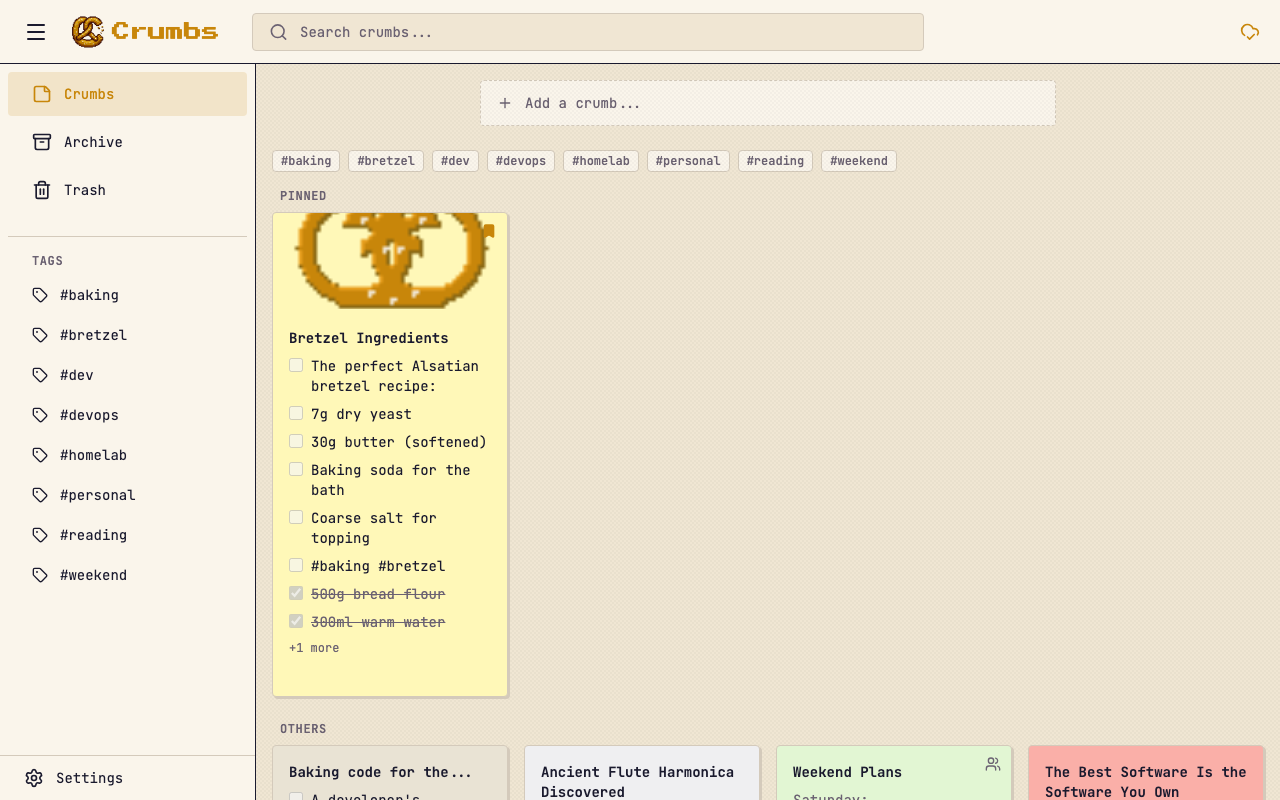
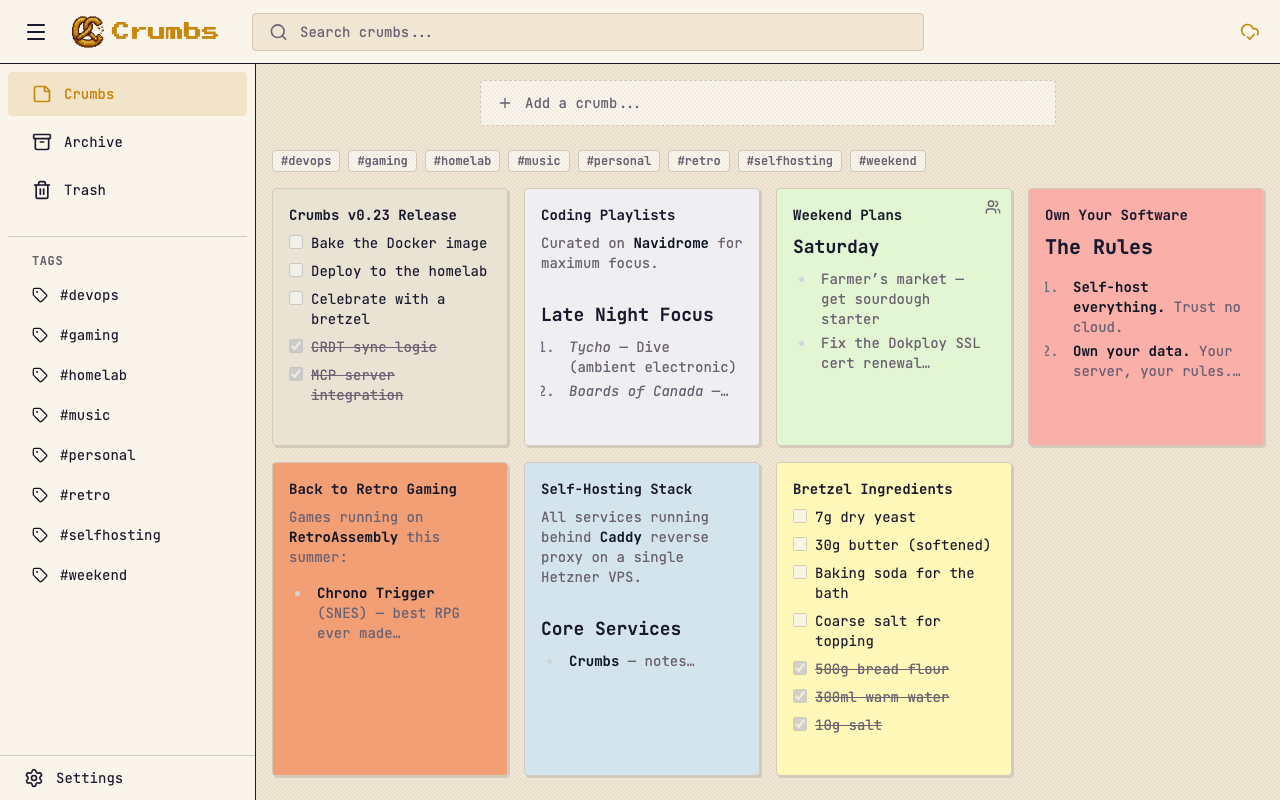
fix(screenshots): improve seed data content and remove attachments
- Remove image attachments and attachments screenshot
- Remove pinned note for cleaner hero grid
- Enrich note content with markdown (headings, bold, italic, blockquotes, lists)
- Replace "Ancient Flute" with "Coding Playlists" (ties to Navidrome)
- Shorten titles, remove content that repeats title
- Remove hashtags from checklist notes (rendered as items)
- Use bretzel persona "Salzig Bretzel" for collaborator
- Update services: Crumbs, 42, Dokploy, Outline, Navidrome, RetroAssembly, Umami

diff --git a/scripts/screenshots/seed.ts b/scripts/screenshots/seed.ts
@@ -1,5 +1,4 @@
 import type { Page } from '@playwright/test';
-import { generateBretzelPng, generateSaltShakerPng } from './bretzel-pixel';
 import { BASE_URL, ADMIN, COLLABORATOR } from './constants';
 
 type HttpMethod = 'post' | 'patch' | 'get' | 'delete';
@@ -14,34 +13,6 @@ async function api(page: Page, method: HttpMethod, path: string, data?: unknown)
 	}
 	const text = await res.text();
 	return text ? JSON.parse(text) : {};
-}
-
-async function uploadAttachment(
-	page: Page,
-	noteId: string,
-	filename: string,
-	pngBuffer: Buffer,
-	featured: boolean
-): Promise<void> {
-	const res = await page.request.post(`${BASE_URL}/api/notes/${noteId}/attachments`, {
-		headers: { Origin: BASE_URL },
-		multipart: {
-			file: {
-				name: filename,
-				mimeType: 'image/png',
-				buffer: pngBuffer
-			}
-		}
-	});
-	if (!res.ok()) {
-		throw new Error(`Upload ${filename} failed: ${res.status()} ${await res.text()}`);
-	}
-	if (featured) {
-		const attachment = await res.json();
-		await api(page, 'patch', `/api/notes/${noteId}/attachments?attachmentId=${attachment.id}`, {
-			featured: true
-		});
-	}
 }
 
 interface NoteData {
@@ -59,83 +30,104 @@ function getNotesData(): NoteData[] {
 	return [
 		{
 			key: 'bakingcode',
-			title: 'Baking code for the...',
-			content: `A developer's checklist where code meets dough.
-
-- [x] Set up CI/CD pipeline
-- [x] Write the CRDT sync logic
-- [ ] Bake the docker image
+			title: 'Crumbs v0.23 Release',
+			content: `- [x] CRDT sync logic
+- [x] MCP server integration
+- [ ] Bake the Docker image
 - [ ] Deploy to the homelab
-- [ ] Celebrate with a bretzel
-
-#dev #bretzel`,
+- [ ] Celebrate with a bretzel`,
 			color: 'clay',
 			checklistMode: true
 		},
 		{
-			key: 'flute',
-			title: 'Ancient Flute Harmonica Discovered',
-			content: `Archaeologists found a 40,000-year-old flute carved from vulture bone.
+			key: 'coding-music',
+			title: 'Coding Playlists',
+			content: `Curated on **Navidrome** for maximum focus.
 
-The oldest known musical instrument.
-Imagine the first song ever played.
+### Late Night Focus
 
-#reading`,
+1. *Tycho* — Dive (ambient electronic)
+2. *Boards of Canada* — Music Has the Right to Children
+3. *Nujabes* — Modal Soul
+4. *C418* — Minecraft Volume Alpha
+
+### Saturday Baking
+
+For slow mornings in the kitchen:
+
+1. *Khruangbin* — Con Todo El Mundo
+2. *Tatsuro Yamashita* — For You
+
+#music #personal`,
 			color: 'chalk'
 		},
 		{
 			key: 'weekend',
 			title: 'Weekend Plans',
-			content: `Saturday:
-- Farmer's market (get sourdough starter)
+			content: `### Saturday
+
+- Farmer's market — get sourdough starter
 - Fix the Dokploy SSL cert renewal
 - Bake a batch of bretzels
 
-Sunday:
-- Retro gaming marathon
+### Sunday
+
+- Retro gaming marathon on *RetroAssembly*
 - Update the self-hosting stack
-- Plan next trip on 42
+- Plan next trip on **42**
+
+> A weekend well spent brings a week of content.
 
 #personal #weekend`,
 			color: 'mint'
 		},
 		{
 			key: 'manifesto',
-			title: 'The Best Software Is the Software You Own',
-			content: `Self-host everything. Trust no cloud.
+			title: 'Own Your Software',
+			content: `## The Rules
 
-The best software is the software you own.
-Your data. Your server. Your rules.
+1. **Self-host everything.** Trust no cloud.
+2. **Own your data.** Your server, your rules.
+3. **Keep it simple.** If it needs a PhD to deploy, it's wrong.
+4. **SQLite > Postgres** for single-user apps. Fight me.
 
-If it can't run on your hardware, it's not really yours.
+> If it can't run on your hardware, it's not really yours.
 
-#personal #bretzel`,
+Seven services, one VPS, *zero* vendor lock-in.
+
+#personal #selfhosting`,
 			color: 'coral'
 		},
 		{
 			key: 'retro',
 			title: 'Back to Retro Gaming',
-			content: `Games to replay this summer:
+			content: `Games running on **RetroAssembly** this summer:
 
-Chrono Trigger (SNES) — best RPG ever made
-The Legend of Zelda: Link's Awakening (GB)
-Castlevania: Symphony of the Night (PS1)
-Advance Wars (GBA)
-Final Fantasy Tactics (PS1)
+- **Chrono Trigger** (SNES) — best RPG ever made
+- **Link's Awakening** (GB) — pure portable magic
+- **Symphony of the Night** (PS1) — the *definitive* Metroidvania
+- **Advance Wars** (GBA) — turn-based perfection
+- **Final Fantasy Tactics** (PS1) — political intrigue + job system
 
-The pixel art era was peak game design.
+> The pixel art era was peak game design.
 
-#reading #personal`,
+#gaming #retro`,
 			color: 'peach'
 		},
 		{
 			key: 'selfhosting',
 			title: 'Self-Hosting Stack',
-			content: `Current homelab setup:
+			content: `All services running behind **Caddy** reverse proxy on a single Hetzner VPS.
 
-**Crumbs** — notes (obviously)
-**Vaultwarden** — passwords
-**Nextcloud** — files & calendar
+### Core Services
+
+- **Crumbs** — notes *(obviously)*
+- **Dokploy** — deployment platform
+- **Outline** — team wiki
+
+### Monitoring
+
+> Everything that can break *will* break at 3 AM on a Sunday.
 
 Just getting started. More to come.
 
@@ -145,19 +137,14 @@ Just getting started. More to come.
 		{
 			key: 'bretzel',
 			title: 'Bretzel Ingredients',
-			content: `The perfect Alsatian bretzel recipe:
-
-- [x] 500g bread flour
+			content: `- [x] 500g bread flour
 - [x] 300ml warm water
 - [x] 10g salt
 - [ ] 7g dry yeast
 - [ ] 30g butter (softened)
 - [ ] Baking soda for the bath
-- [ ] Coarse salt for topping
-
-#baking #bretzel`,
+- [ ] Coarse salt for topping`,
 			color: 'sand',
-			pinned: true,
 			checklistMode: true
 		}
 	];
@@ -165,47 +152,64 @@ Just getting started. More to come.
 
 function getVersionHistoryContents(): string[] {
 	return [
-		// Version 2: Add Dokploy + Outline
-		`Current homelab setup:
+		// Version 2: Add Navidrome + RetroAssembly
+		`All services running behind **Caddy** reverse proxy on a single Hetzner VPS.
 
-**Crumbs** — notes (obviously)
-**Dokploy** — deployment platform
-**Outline** — team wiki
-**Vaultwarden** — passwords
-**Nextcloud** — files & calendar
+### Core Services
+
+- **Crumbs** — notes *(obviously)*
+- **Dokploy** — deployment platform
+- **Outline** — team wiki
+- **Navidrome** — music streaming
+- **RetroAssembly** — retro game emulation
+
+### Monitoring
+
+> Everything that can break *will* break at 3 AM on a Sunday.
 
 Growing the stack.
 
 #homelab #devops`,
 
-		// Version 3: Add Navidrome + Plausible
-		`Current homelab setup:
+		// Version 3: Add 42 + Umami
+		`All services running behind **Caddy** reverse proxy on a single Hetzner VPS.
 
-**Crumbs** — notes (obviously)
-**Dokploy** — deployment platform
-**Outline** — team wiki
-**Navidrome** — music streaming
-**Vaultwarden** — passwords
-**Nextcloud** — files & calendar
-**Plausible** — analytics
+### Core Services
+
+- **Crumbs** — notes *(obviously)*
+- **42** — holiday budget tracking
+- **Dokploy** — deployment platform
+- **Outline** — team wiki
+- **Navidrome** — music streaming
+- **RetroAssembly** — retro game emulation
+- **Umami** — privacy-first analytics
+
+### Monitoring
+
+> Everything that can break *will* break at 3 AM on a Sunday.
 
 The stack is getting serious.
 
 #homelab #devops`,
 
-		// Version 4: Add 42, final version
-		`Current homelab setup:
+		// Version 4: Final version
+		`All services running behind **Caddy** reverse proxy on a single Hetzner VPS.
 
-**Crumbs** — notes (obviously)
-**42** — holiday budget tracking
-**Dokploy** — deployment platform
-**Outline** — team wiki
-**Navidrome** — music streaming
-**Vaultwarden** — passwords
-**Nextcloud** — files & calendar
-**Plausible** — analytics
+### Core Services
 
-Everything below daily reverse proxy.
+- **Crumbs** — notes *(obviously)*
+- **42** — holiday budget tracking
+- **Dokploy** — deployment platform
+- **Outline** — team wiki
+- **Navidrome** — music streaming
+- **RetroAssembly** — retro game emulation
+- **Umami** — privacy-first analytics
+
+### Monitoring
+
+> Everything that can break *will* break at 3 AM on a Sunday.
+
+Everything below daily reverse proxy. The dream stack is *almost* complete.
 
 #homelab #devops`
 	];
@@ -260,19 +264,7 @@ export async function seed(page: Page): Promise<void> {
 		console.log(`  version ${i + 2} created for "Self-Hosting Stack"`);
 	}
 
-	// 6. Upload pixel-art images to "Bretzel Ingredients"
-	await uploadAttachment(page, noteIds['bretzel'], 'bretzel.png', generateBretzelPng(), true);
-	console.log('  uploaded bretzel.png (featured)');
-	await uploadAttachment(
-		page,
-		noteIds['bretzel'],
-		'salt-shaker.png',
-		generateSaltShakerPng(),
-		false
-	);
-	console.log('  uploaded salt-shaker.png');
-
-	// 7. Create API keys
+	// 6. Create API keys
 	await api(page, 'post', '/api/settings/api-keys', { name: 'Claude Code' });
 	await api(page, 'post', '/api/settings/api-keys', { name: 'N8N' });
 	console.log('  API keys created');

diff --git a/scripts/screenshots/capture.ts b/scripts/screenshots/capture.ts
@@ -72,17 +72,7 @@ export async function captureDesktop(page: Page): Promise<void> {
 	await page.getByTestId('close-editor-btn').click();
 	await waitForApp(page);
 
-	// D6: Attachments — open "Bretzel Ingredients" (has featured bretzel image)
-	await noteCard(page, 'Bretzel Ingredients').click();
-	await page.waitForSelector('[data-testid="note-editor"]');
-	await page.getByTestId('image-toggle').click();
-	await page.waitForSelector('[data-testid="image-upload"]');
-	await waitForApp(page);
-	await screenshot(page, 'screenshot-attachments.png');
-	await page.getByTestId('close-editor-btn').click();
-	await waitForApp(page);
-
-	// D7: API/MCP settings
+	// D6: API/MCP settings
 	await page.goto(`${BASE_URL}/settings/mcp`);
 	await waitForApp(page);
 	await screenshot(page, 'screenshot-api.png');

diff --git a/website/index.html b/website/index.html
@@ -224,10 +224,6 @@
 					<div class="screenshot-label">Version history</div>
 				</div>
 				<div class="screenshot-card animate-in delay-6">
-					<img src="assets/screenshot-attachments.png" alt="Note with pixel-art bretzel featured image" width="1280" height="800" loading="lazy">
-					<div class="screenshot-label">Image attachments</div>
-				</div>
-				<div class="screenshot-card animate-in delay-1">
 					<img src="assets/screenshot-api.png" alt="API keys and MCP client configuration for Claude Code" width="1280" height="800" loading="lazy">
 					<div class="screenshot-label">API & MCP</div>
 				</div>

diff --git a/scripts/screenshots/constants.ts b/scripts/screenshots/constants.ts
@@ -12,7 +12,7 @@ export const ADMIN = {
 };
 
 export const COLLABORATOR = {
-	email: 'alice@bretzel.app',
-	displayName: 'Alice Chen',
-	password: 'alice2026!!'
+	email: 'salzig@bretzel.app',
+	displayName: 'Salzig Bretzel',
+	password: 'salzig2026!!'
 };
